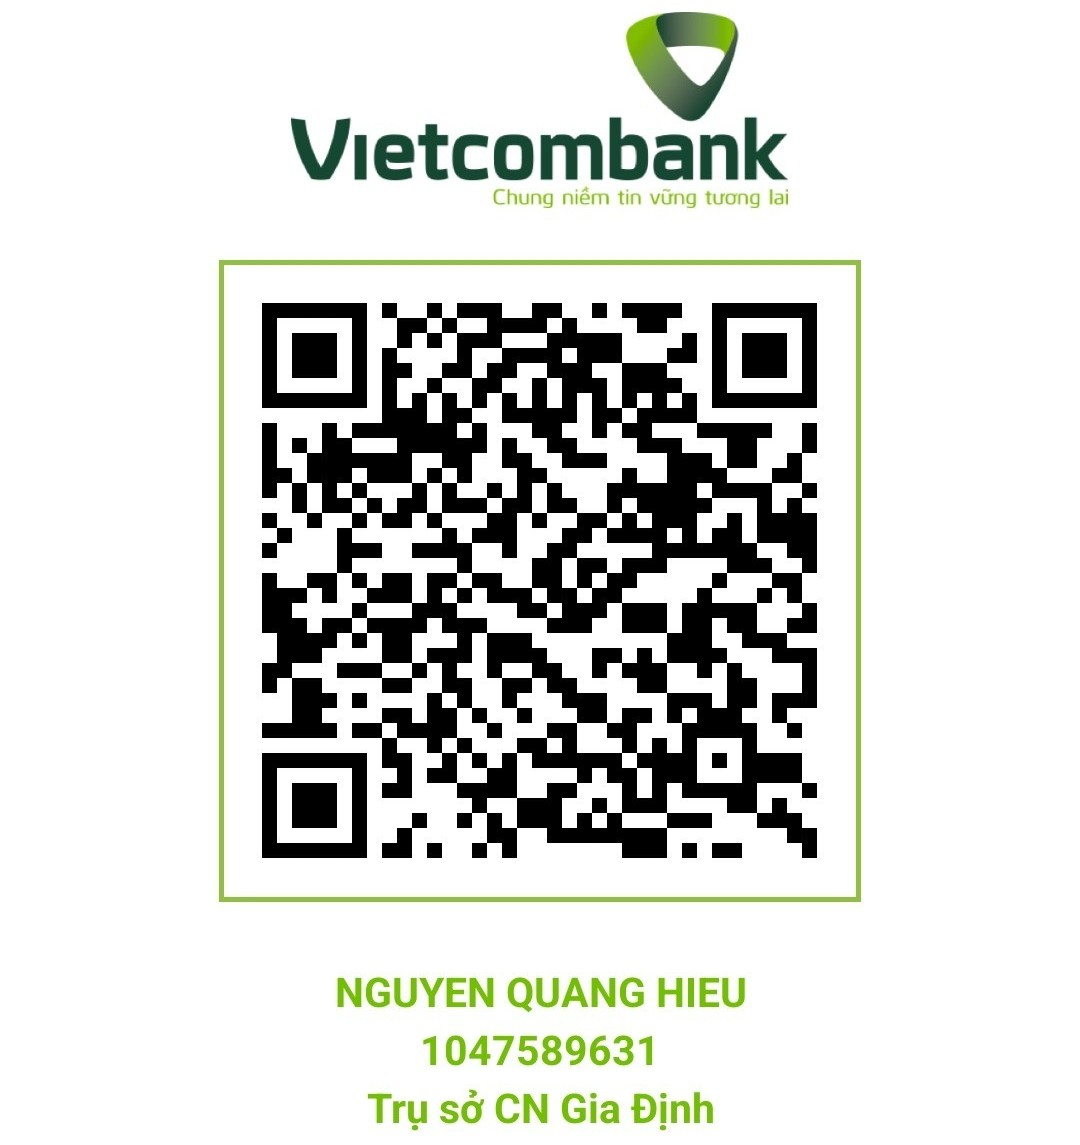
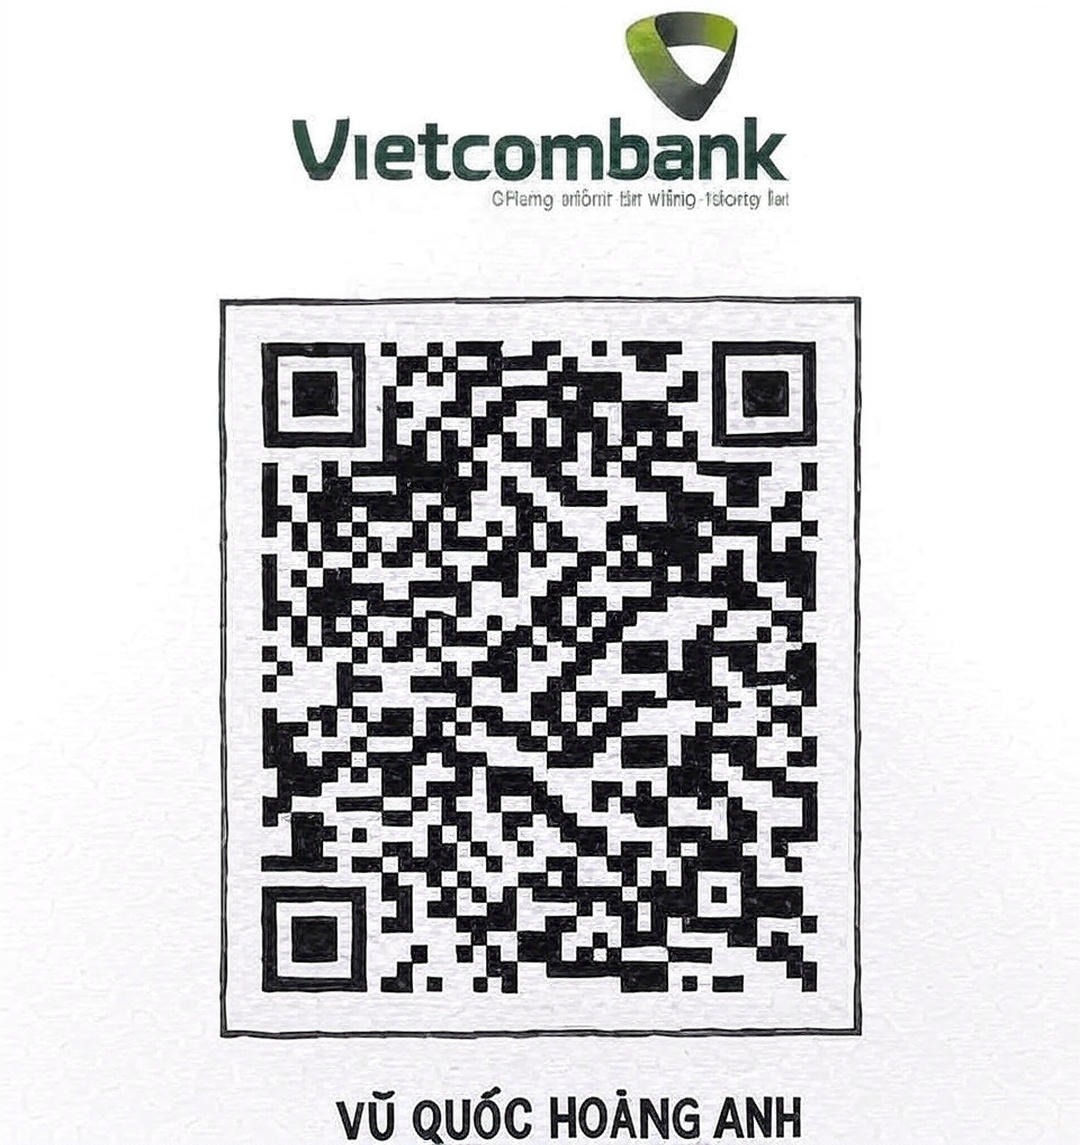
1

Changed region(s): [[0.1833, 0.214, 0.825, 1.0], [0.275, 0.0, 0.7333, 0.1834]]

diff --git a/client/src/Components/Home/Footer/footer.js b/client/src/Components/Home/Footer/footer.js
@@ -33,20 +33,20 @@ function Footer() {
             <ul className="footer__list">
               <li className="footer__item">
                 <a
-                  href="https://phongtro123.com/chinh-sach-bao-mat"
+                 href="/"
                   className="footer__item__link"
                 >
                   Chính sách bảo mật
                 </a>
               </li>
               <li className="footer__item">
-                <a href="https://phongtro123.com/quy-dinh-su-dung" className="footer__item__link">
+                <a href="/" className="footer__item__link">
                   Điều khoản sử dụng
                 </a>
               </li>
               <li className="footer__item">
                 <a
-                  href="https://phongtro123.com/quy-dinh-dang-tin"
+                  href="/"
                   className="footer__item__link"
                 >
                   Quy định đăng tin
@@ -64,19 +64,19 @@ function Footer() {
             <ul className="footer__list">
             <li className="footer__item">
                 <a
-                  href="https://mail.google.com/mail/u/0/#inbox?compose=new"
+                  href="/"
                   className="footer__item__link"
                 >
                   <ion-icon
                     className="footer__item__icon"
                     name="logo-email"
                   ></ion-icon>
-                  nguyenhieuxt23@gmail.com
+                  abc@gmail.com
                 </a>
               </li>
               <li className="footer__item">
                 <a
-                  href="https://www.facebook.com/nguyenhieuxt23"
+                 href="/"
                   className="footer__item__link"
                 >
                   <ion-icon
@@ -88,7 +88,7 @@ function Footer() {
               </li>
               <li className="footer__item">
                 <a
-                  href="https://www.instagram.com/hieu1tuoi_/"
+                  href="/"
                   className="footer__item__link"
                 >
                   <ion-icon
@@ -100,7 +100,7 @@ function Footer() {
               </li>
               <li className="footer__item">
                 <a
-                  href="https://www.tiktok.com/@hieu1tuoi_"
+                 href="/"
                   className="footer__item__link"
                 >
                   <ion-icon
@@ -117,9 +117,9 @@ function Footer() {
       <div className="footer__bottom">
         <div className="grid">
           <p>
-            Nhóm 20 
+            Nhóm 
           </p>
-          <p>Đề tài: Thiết kế phần mềm đăng bài thuê phòng trọ</p>
+          <p>Đề tài: Phát triển hệ thống phần mềm đăng bài thuê phòng trọ</p>
         </div>
       </div>
     </footer>

diff --git a/client/src/Components/User/user_payment/main.js b/client/src/Components/User/user_payment/main.js
@@ -77,8 +77,8 @@ const PostTable = () => {
         </div>
         <div className="info">
           <h1>Thông tin thanh toán</h1>
-          <p>STK: 1047589631</p>
-          <p>Chủ tài khoản: NGUYEN QUANG HIEU</p>
+          <p>STK: 12345678</p>
+          <p>Chủ tài khoản: VU QUOC HOANG ANH</p>
           <p>Ngân hàng: Vietcombank</p>
           <p>Nội dung: Mã thanh toán</p>
           <p style={{color:"red"}}>Lưu ý: Nội dung là MÃ THANH TOÁN (không phải mã bài đăng) chính xác với thông tin thanh toán dưới đây.</p>
